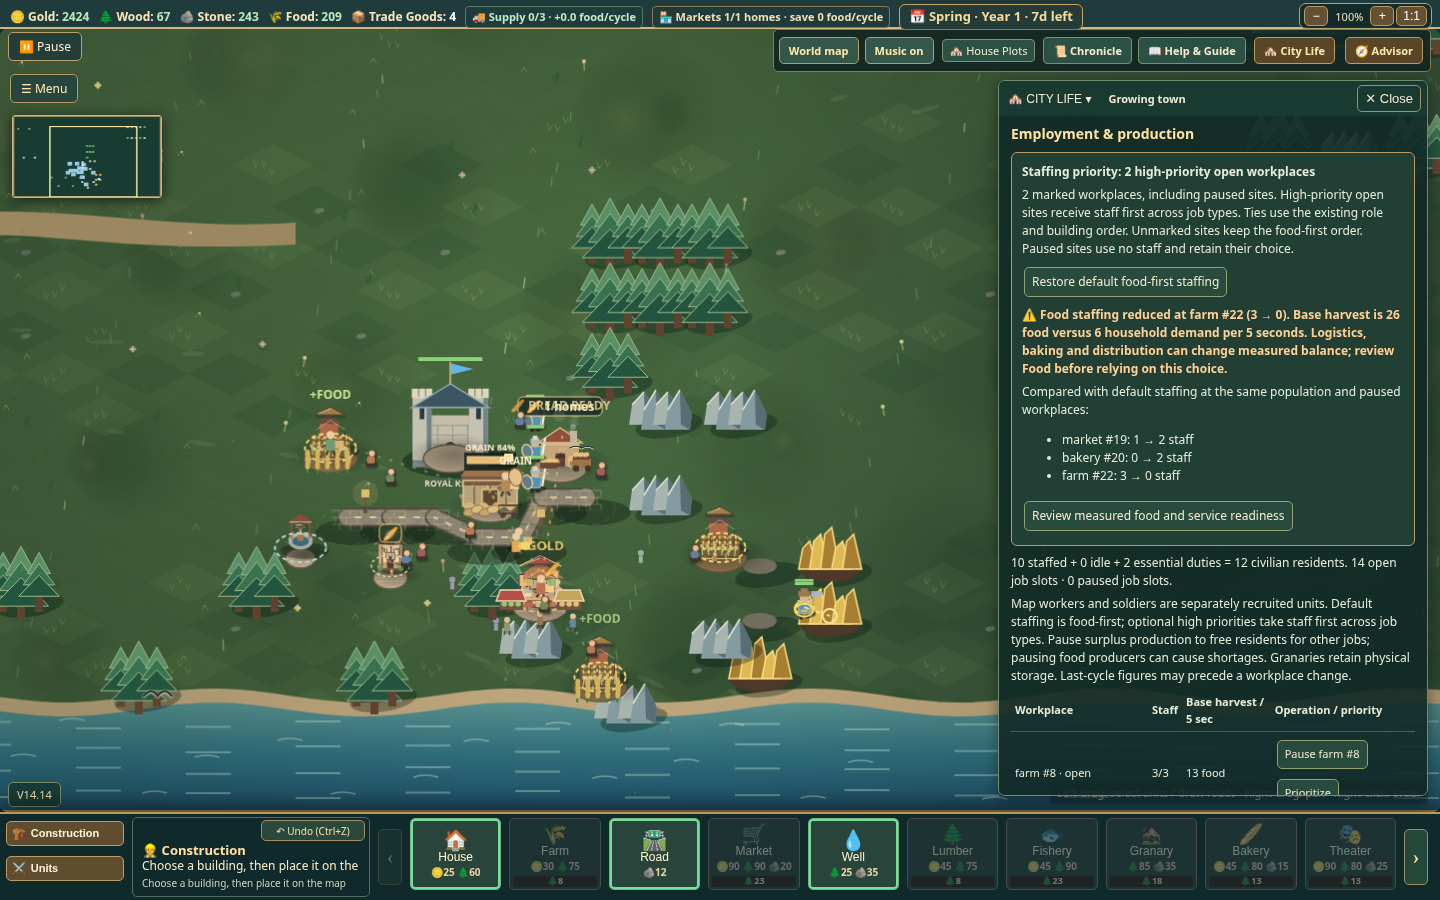
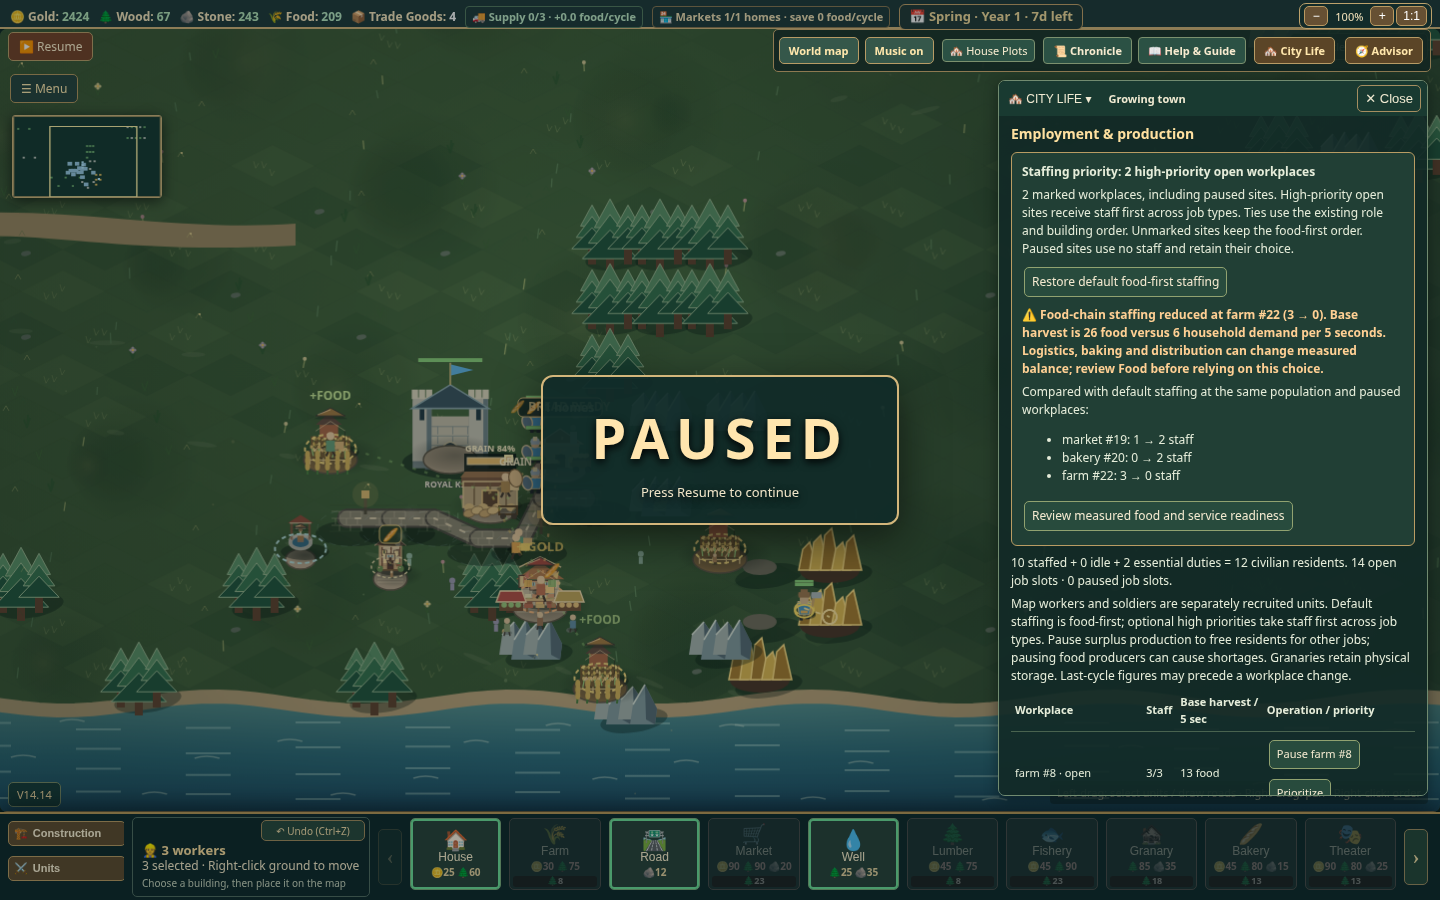
fix: warn on food-chain staffing loss and sync restored pause control

diff --git a/index.html b/index.html
@@ -608,8 +608,8 @@ function cityStaffingPriorityDetails(owned,production,demand){
  const baseline=cityAllocateEmployment(sites,false);
  const changes=sites.map(b=>({id:b.id,type:b.type,before:baseline.byId.get(b.id).count,after:employment.byId.get(b.id).count})).filter(b=>b.before!==b.after);
  const active=sites.filter(b=>b.cityWorkPriority===true&&!b.cityWorkPaused).length,warnings=[];
- const lost=changes.filter(b=>b.after<b.before),foodLoss=lost.filter(b=>['farm','fishery'].includes(b.type)),services=lost.filter(b=>['market','clinic','granary'].includes(b.type));
- if(foodLoss.length)warnings.push({kind:'food',message:'Food staffing reduced at '+foodLoss.map(b=>b.type+' #'+b.id+' ('+b.before+' → '+b.after+')').join(', ')+'. Base harvest is '+(Math.round(production*10)/10)+' food versus '+demand+' household demand per 5 seconds. Logistics, baking and distribution can change measured balance; review Food before relying on this choice.'});
+ const lost=changes.filter(b=>b.after<b.before),foodLoss=lost.filter(b=>['farm','fishery','bakery','granary','market'].includes(b.type)),services=lost.filter(b=>['market','clinic','granary'].includes(b.type));
+ if(foodLoss.length)warnings.push({kind:'food',message:'Food-chain staffing reduced at '+foodLoss.map(b=>b.type+' #'+b.id+' ('+b.before+' → '+b.after+')').join(', ')+'. Base harvest is '+(Math.round(production*10)/10)+' food versus '+demand+' household demand per 5 seconds. Logistics, baking and distribution can change measured balance; review Food before relying on this choice.'});
  if(services.length)warnings.push({kind:'services',message:'Service staffing reduced at '+services.map(b=>b.type+' #'+b.id+' ('+b.before+' → '+b.after+')').join(', ')+'. Check current service readiness: reduced staffing can affect healthcare, markets or granary logistics. Physical granary storage is retained.'});
  return {total,active,changes,warnings,canManage:scTradePolicyReady()};
 }
@@ -3013,7 +3013,7 @@ function scRestoreCity(input){
  stats=s.stats;cityGrowth=s.growth;cityLedger=s.ledger;cityFlows=s.flows;cityHouseholds=s.households;citySatisfactionLast=s.satisfactionLast;
  trainQueue=s.trainQueue;aiQueue=s.aiQueue;scUndoStack.splice(0,scUndoStack.length,...s.undo);for(let i=0;i<3;i++)scSquads[i]=p.squads[i];
  window.sc1411LogisticsSnapshot=s.measurements.logistics;window.sc1412MarketDistributionSnapshot=s.measurements.distribution;window.sc1316CivicSnapshot=s.measurements.civic;
- effects=[];projectiles=[];combatTexts=[];drag=null;rightPan=null;wallPointer=null;mode=null;aiRally=null;paused=true;ended=s.ended;tutorialVisible=false;last=performance.now();uiRefresh=0;c.classList.remove('panning');
+ effects=[];projectiles=[];combatTexts=[];drag=null;rightPan=null;wallPointer=null;mode=null;aiRally=null;paused=true;ended=s.ended;el('pause').textContent='Resume';tutorialVisible=false;last=performance.now();uiRefresh=0;c.classList.remove('panning');
  window.scRTSUnits=units;window.scRTSNodes=nodes;window.scHoverBuildings=buildings;window.scRTSSelected=selected.slice();window.scRTSInspectedBuilding=inspectedBuilding;
  el('difficulty').value=difficulty;el('resFood').textContent=Math.floor(food);el('population').textContent=population;
  const ration=el('sc1303Mode');if(window.scRationPolicy)window.scRationPolicy.restore(s.options.ration);else if(ration){ration.value=s.options.ration.mode;ration.dispatchEvent(new Event('change'));}
@@ -6819,7 +6819,7 @@ if(document.readyState==='loading')document.addEventListener('DOMContentLoaded',
    '<p>Shared reserve: '+number(s.food.baseStock)+'/90 base storage'+s.food.granaries.map(g=>' · Granary #'+g.id+' '+number(g.stock)+'/160 ('+g.staff+'/1 staff, '+(g.connected?'road connected':'needs connected roads')+')').join('')+'. Granaries share this reserve; these are not extra food stocks.</p>'+
    '<h3>Measured food chain · last 5-second cycle</h3><p>Farm / fishery → shared granary reserve → market waste savings → households. Producers still harvest without a granary; connected staffed granaries add 25%. Bakers use the same reserve. Markets save food, rather than creating another stock.</p><table aria-label="Measured production chain"><tr><th>Building</th><th>Harvest + logistics</th><th>Grain → bread</th><th>Exports</th></tr>'+s.food.flows.map(f=>'<tr><td>'+f.type+' #'+f.id+' ('+f.staff+' staff last cycle)</td><td>'+number(f.harvest)+' + '+number(f.logistics)+'</td><td>'+number(f.consumed)+' → '+number(f.produced)+'</td><td>'+number(f.exported)+'</td></tr>').join('')+'</table><p>Household accounting shares use residents present at the start of the last cycle; these are not simulated delivery carts. Display values are rounded to one decimal; calculations retain full precision.</p><table aria-label="Household food delivery"><tr><th>Home</th><th>Residents</th><th>Demand</th><th>Consumed</th><th>Unmet</th></tr>'+s.food.households.map(h=>'<tr><td>'+h.label+'</td><td>'+h.residents+'</td><td>'+number(h.demand)+'</td><td>'+number(h.delivered)+'</td><td>'+number(h.shortfall)+'</td></tr>').join('')+'</table>'+
    '<h3>Building feedback</h3>'+s.buildings.filter(b=>b.staff||b.type==='well').map(b=>'<details data-house="site'+b.id+'"'+(open.has('site'+b.id)?' open':'')+'><summary>'+b.type+' #'+b.id+(b.staff?' · '+b.staff.filled+'/'+b.staff.need+' staff':'')+(b.workplace?.paused?' · paused':b.idle?' · idle':'')+'</summary>'+locate(b.id,b.type)+'<p>'+b.nextAction+'</p>'+b.blockers.slice(1).map(x=>'<p class="cityWarn">'+x+'</p>').join('')+(b.service?'<p>'+b.service.message+'</p>':'')+(b.coverage?'<p>Service reach: '+b.coverage.served+'/'+b.coverage.nearby+' nearby homes covered · '+b.coverage.supplied+' currently supplied. Food delivery remains measured in the ledger.</p>':'')+'</details>').join('')+
-   '<h3 id="scPlanSectionEmployment" tabindex="-1">Employment & production</h3>'+staffingPlan+'<p>'+s.workforce.filled+' staffed + '+s.workforce.idle+' idle + '+s.workforce.reserved+' essential duties = '+s.population+' civilian residents. '+s.workforce.jobs+' open job slots · '+s.workforce.pausedJobs+' paused job slots.</p><p>Map workers and soldiers are separately recruited units. Default staffing is food-first; optional high priorities take staff first across job types. Pause surplus production to free residents for other jobs; pausing food producers can cause shortages. Granaries retain physical storage. Last-cycle figures may precede a workplace change.</p><table aria-label="Workplace staffing"><tr><th>Workplace</th><th>Staff</th><th>Base harvest / 5 sec</th><th>Operation / priority</th></tr>'+s.workforce.sites.map(b=>'<tr><td>'+b.type+' #'+b.id+(b.paused?' · paused':' · open')+(b.priority?' · high staffing priority':'')+'</td><td>'+b.filled+'/'+b.need+'</td><td>'+(['farm','fishery','lumberyard'].includes(b.type)?number(b.output)+(b.type==='lumberyard'?' wood':' food'):'Service / conversion')+'</td><td><button type="button" data-workplace="'+b.id+'" data-open="'+b.paused+'">'+(b.paused?'Open ':'Pause ')+b.type+' #'+b.id+'</button><button type="button" data-priority="'+b.id+'" data-high="'+!b.priority+'" aria-pressed="'+b.priority+'" aria-label="'+(b.priority?'Use default staffing for ':'Prioritize staffing for ')+b.type+' #'+b.id+'"'+(!priorities.canManage?' disabled':'')+'>'+(b.priority?'✓ High priority':'Prioritize')+'</button>'+(b.priority&&priorities.warnings.length?'<p class="cityWarn">⚠ Current priorities reduce '+priorities.warnings.map(w=>w.kind==='food'?'food':'service').join(' and ')+' staffing.</p><button type="button" id="scPriorityReviewImpact-'+b.id+'" data-economy-section="Employment">Review staffing impacts</button>':'')+'</td></tr>').join('')+'</table>'+
+   '<h3 id="scPlanSectionEmployment" tabindex="-1">Employment & production</h3>'+staffingPlan+'<p>'+s.workforce.filled+' staffed + '+s.workforce.idle+' idle + '+s.workforce.reserved+' essential duties = '+s.population+' civilian residents. '+s.workforce.jobs+' open job slots · '+s.workforce.pausedJobs+' paused job slots.</p><p>Map workers and soldiers are separately recruited units. Default staffing is food-first; optional high priorities take staff first across job types. Pause surplus production to free residents for other jobs; pausing food producers can cause shortages. Granaries retain physical storage. Last-cycle figures may precede a workplace change.</p><table aria-label="Workplace staffing"><tr><th>Workplace</th><th>Staff</th><th>Base harvest / 5 sec</th><th>Operation / priority</th></tr>'+s.workforce.sites.map(b=>'<tr><td>'+b.type+' #'+b.id+(b.paused?' · paused':' · open')+(b.priority?' · high staffing priority':'')+'</td><td>'+b.filled+'/'+b.need+'</td><td>'+(['farm','fishery','lumberyard'].includes(b.type)?number(b.output)+(b.type==='lumberyard'?' wood':' food'):'Service / conversion')+'</td><td><button type="button" data-workplace="'+b.id+'" data-open="'+b.paused+'">'+(b.paused?'Open ':'Pause ')+b.type+' #'+b.id+'</button><button type="button" data-priority="'+b.id+'" data-high="'+!b.priority+'" aria-pressed="'+b.priority+'" aria-label="'+(b.priority?'Use default staffing for ':'Prioritize staffing for ')+b.type+' #'+b.id+'"'+(!priorities.canManage?' disabled':'')+'>'+(b.priority?'✓ High priority':'Prioritize')+'</button>'+(b.priority&&priorities.warnings.length?'<p class="cityWarn">⚠ Current priorities reduce '+priorities.warnings.map(w=>w.kind==='food'?'food-chain':'service').join(' and ')+' staffing.</p><button type="button" id="scPriorityReviewImpact-'+b.id+'" data-economy-section="Employment">Review staffing impacts</button>':'')+'</td></tr>').join('')+'</table>'+
    '<h3>Prosperity '+number(s.prosperity.score)+' / 100</h3><progress max="100" value="'+s.prosperity.score+'" aria-label="City prosperity"></progress><p>Target '+s.prosperity.target+'/100 · changes by at most 2 points per five-second cycle.</p><table aria-label="Prosperity contributions">'+s.prosperity.factors.map(f=>row(f.label,number(f.points)+' / '+f.max)).join('')+'</table><p>'+(s.peace.scenario==='city'?s.peace.description:s.peace.difficulty+' difficulty: <span id="scCityGraceRemaining">'+Math.ceil(s.peace.remaining)+'</span> seconds of settlement grace remain before offensive raids; later raids are spaced at least '+s.peace.raidInterval+' seconds apart. Enemy territory still defends itself.')+'</p><h3>Next steps</h3>'+s.advice.map(a=>'<p>• '+a+'</p>').join('');
    const actionFocus=focusSteward?panel.querySelector(focusResource?'[data-steward-resource="'+focusResource+'"]':'[data-steward="idle"]'):focusNeed?panel.querySelector('[data-village-section="'+focusNeed+'"]'):null;
    const focusTarget=focusPriority?panel.querySelector('[data-priority="'+focusPriority+'"]'):focusReset?(priorities.total?panel.querySelector('#scResetWorkplacePriorities'):panel.querySelector('#scPlanSectionEmployment')):focusPolicy?panel.querySelector(focusPolicy):focusEconomy?(focusEconomyId?panel.querySelector('#'+focusEconomyId):panel.querySelector('[data-economy-section="'+focusEconomy+'"]')):focusWorkplace?panel.querySelector('[data-workplace="'+focusWorkplace+'"]'):focusSection?panel.querySelector('#'+focusSection):focusLocate?panel.querySelector((focusHouse?'details[data-house="'+focusHouse+'"] ':'')+'[data-locate="'+focusLocate+'"]'):focusHouse?panel.querySelector('details[data-house="'+focusHouse+'"] summary'):actionFocus;

diff --git a/docs/validation/m15-verification.md b/docs/validation/m15-verification.md
@@ -4,7 +4,7 @@ Baseline: owner-approved M14 merge `33fd3858a7923677e623d026fbc2de81b485db42`, e
 
 M15 uses the existing isolated worktree on feat/m15-city-progression. The initial policy-feedback fixes were preserved locally while integrating only the approved M14 head, then based on the approved merge. Alex and owner explicitly chose cross-job priorities and optional validated save flags. See the scoped plan/spec for deterministic ordering and compatibility boundaries.
 
-Two policy-feedback cases failed against M14, then passed at390px and1366×606. A stale paused explanation was reproduced and fixed in the presentation signature. Eleven priority cases failed before the engine/API existed, then passed across focused runs: default equivalence, all seven workplace types, deterministic scarcity/ties, reversal, paused/reopened/removed sites, food/service warnings, active-city guards, foreign/malformed flags, genuinev0.14save compatibility, native input and reset/fallback focus. Native-pointer tests caught offscreen focused controls after impact rendering; manual-scroll tests then caught over-eager recentering. Both were corrected and verified without moving the map. A twelfth priority case reproduced duplicated planning-link focus moving to another section; unique control identities and a removed-link fallback now preserve the original section.
+Two policy-feedback cases failed against M14, then passed at390px and1366×606. A stale paused explanation was reproduced and fixed in the presentation signature. Eleven priority cases failed before the engine/API existed, then passed across focused runs: default equivalence, all seven workplace types, deterministic scarcity/ties, reversal, paused/reopened/removed sites, food/service warnings, active-city guards, foreign/malformed flags, genuinev0.14save compatibility, native input and reset/fallback focus. Native-pointer tests caught offscreen focused controls after impact rendering; manual-scroll tests then caught over-eager recentering. Both were corrected and verified without moving the map. A twelfth priority case reproduced duplicated planning-link focus moving to another section; unique control identities and a removed-link fallback now preserve the original section. A thirteenth case proved that shifting staff between bakeries could turn a surplus into a deficit with unchanged farm staffing; food-risk warnings now cover bakery, granary and market staffing losses as well. Production calculations remain unchanged. The genuine-save test also reproduced a paused simulation with a stale Pause label after load; restoration now synchronizes the Resume control, without changing the restored simulation state.
 
 Legacy growth/workplace and Economy interaction regressions are checked locally after the allocator change. Comprehensive exact-head regression/browser/release checks use the unchanged standard branch/PR CI workflows, plus exact-source package build/checksum/Git-source validation and five packaged smoke journeys. Do not duplicate a third unchanged full platform run locally or remove any required gate. Actual final counts, source refs, CI runs, review findings and verified ZIP are recorded in the draft PR.
 

diff --git a/docs/MILESTONE15.md b/docs/MILESTONE15.md
@@ -2,11 +2,11 @@
 
 City Life → Employment now offers **Prioritize / High priority** for every staffed workplace, plus **Restore default food-first staffing**. Alex and the owner approved priorities across job types. With no priorities set, the previous food-first allocation is unchanged. High-priority open sites receive available civilian staff first; ordinary sites then use the original farm/fishery/lumberyard/market/clinic/granary/bakery order. Ties retain that role order and building insertion order. Two residents remain reserved for essential duties.
 
-The impact panel compares current assignments with the default at the same population and paused-site choices. It shows exactly which sites gained or lost staff. Food-producer staff losses raise a clear food warning; reduced clinic, market or granary staff raises a service warning. Base harvest is labelled separately from measured food balance, because logistics, baking and distribution can change the actual result. Reduced service staffing does not necessarily mean a service has stopped; current readiness remains in the existing Food details.
+The impact panel compares current assignments with the default at the same population and paused-site choices. It shows exactly which sites gained or lost staff. Staff losses at farms, fisheries, bakeries, granaries or markets raise a clear food-chain warning; reduced clinic, market or granary staff raises a service warning. Base harvest is labelled separately from measured food balance, because logistics, baking and distribution can change the actual result. Reduced service staffing does not necessarily mean a service has stopped; current readiness remains in the existing Food details.
 
 Every priority is reversible. Reset removes all priority flags without reopening paused sites. A paused site uses no staff and retains its choice until reopened. Map workers, unit orders, camera, roads, construction/Undo and global Pause are unaffected. Native keyboard and held-pointer activation survive live refresh; changed controls stay visible while deliberate manual scrolling is respected.
 
-The owner's M14 playtest feedback is also addressed: Economy shows explicit policy checkmarks, a current-choice summary, visible reserve headings and consumption-duration labels before the longer explanation. A missing bakery or paused game explains why selecting a policy may produce no immediate exports. The Pause explanation updates promptly after Resume. Food priority is described as an intentional choice, not a broken bakery.
+The owner's M14 playtest feedback is also addressed: Economy shows explicit policy checkmarks, a current-choice summary, visible reserve headings and consumption-duration labels before the longer explanation. A missing bakery or paused game explains why selecting a policy may produce no immediate exports. The Pause explanation updates promptly after Resume, and restored paused cities now label the control Resume correctly. Food priority is described as an intentional choice, not a broken bakery.
 
 ## Saves and preserved rules
 
